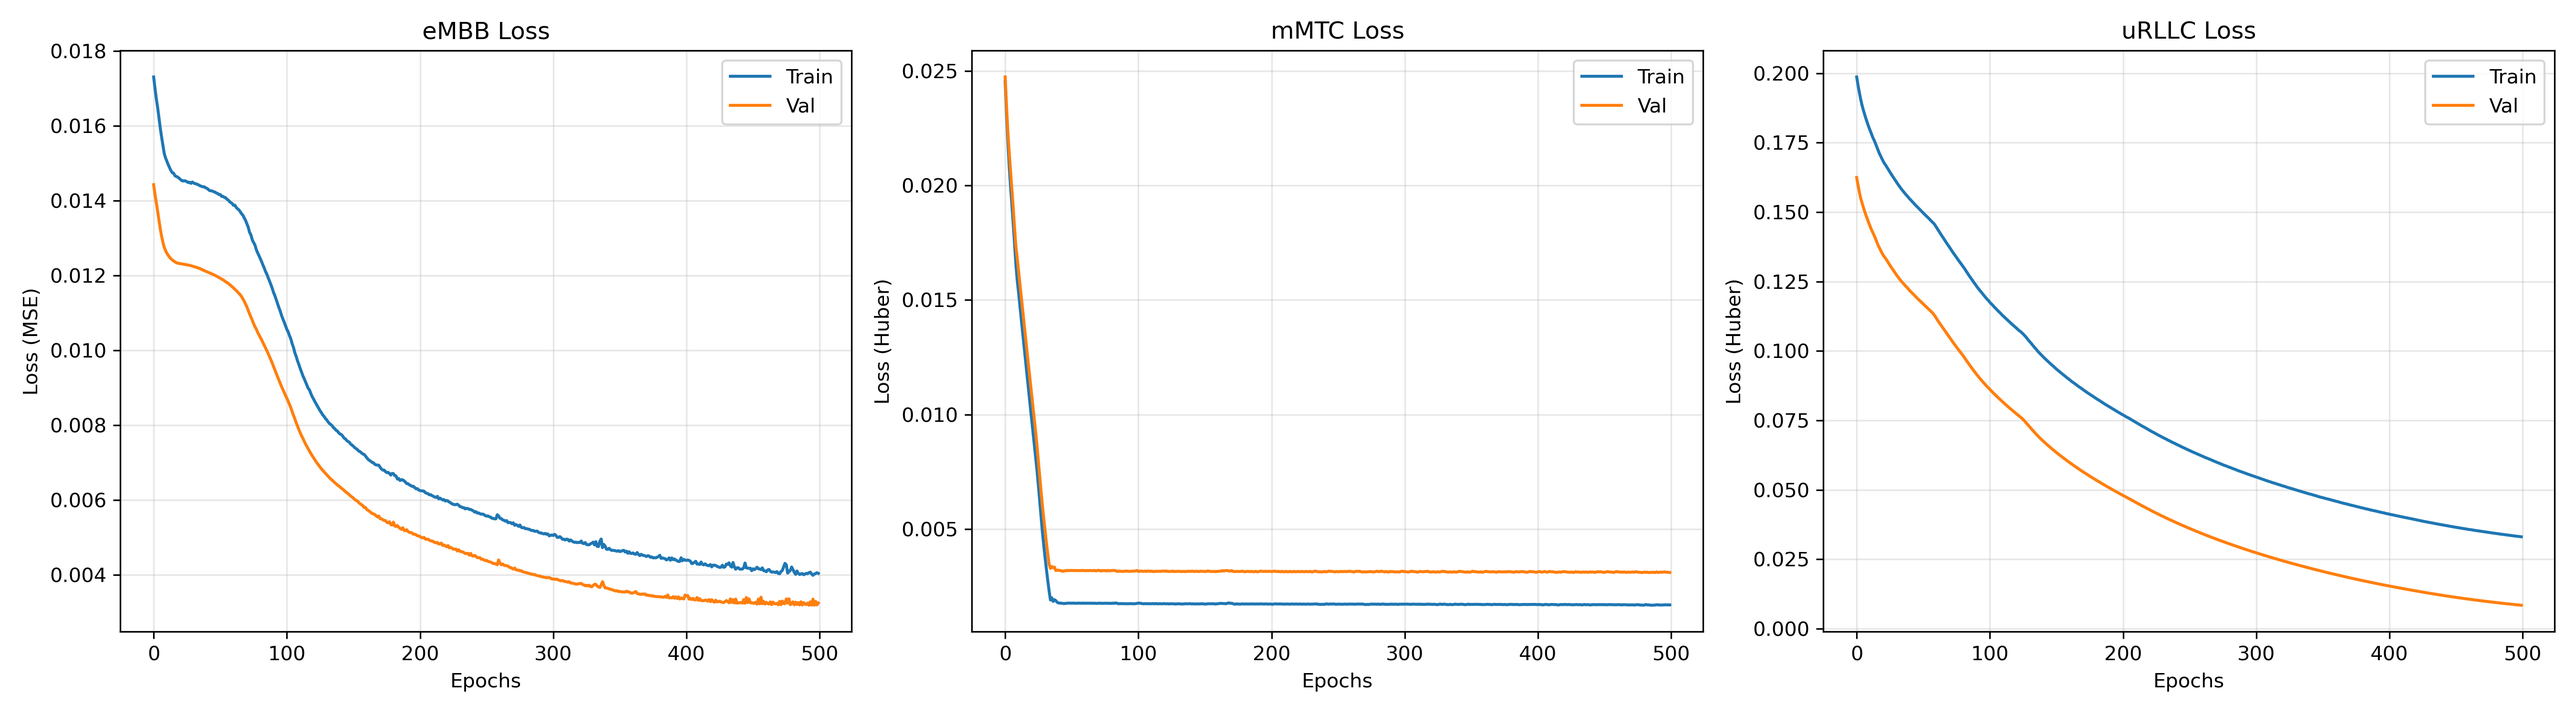
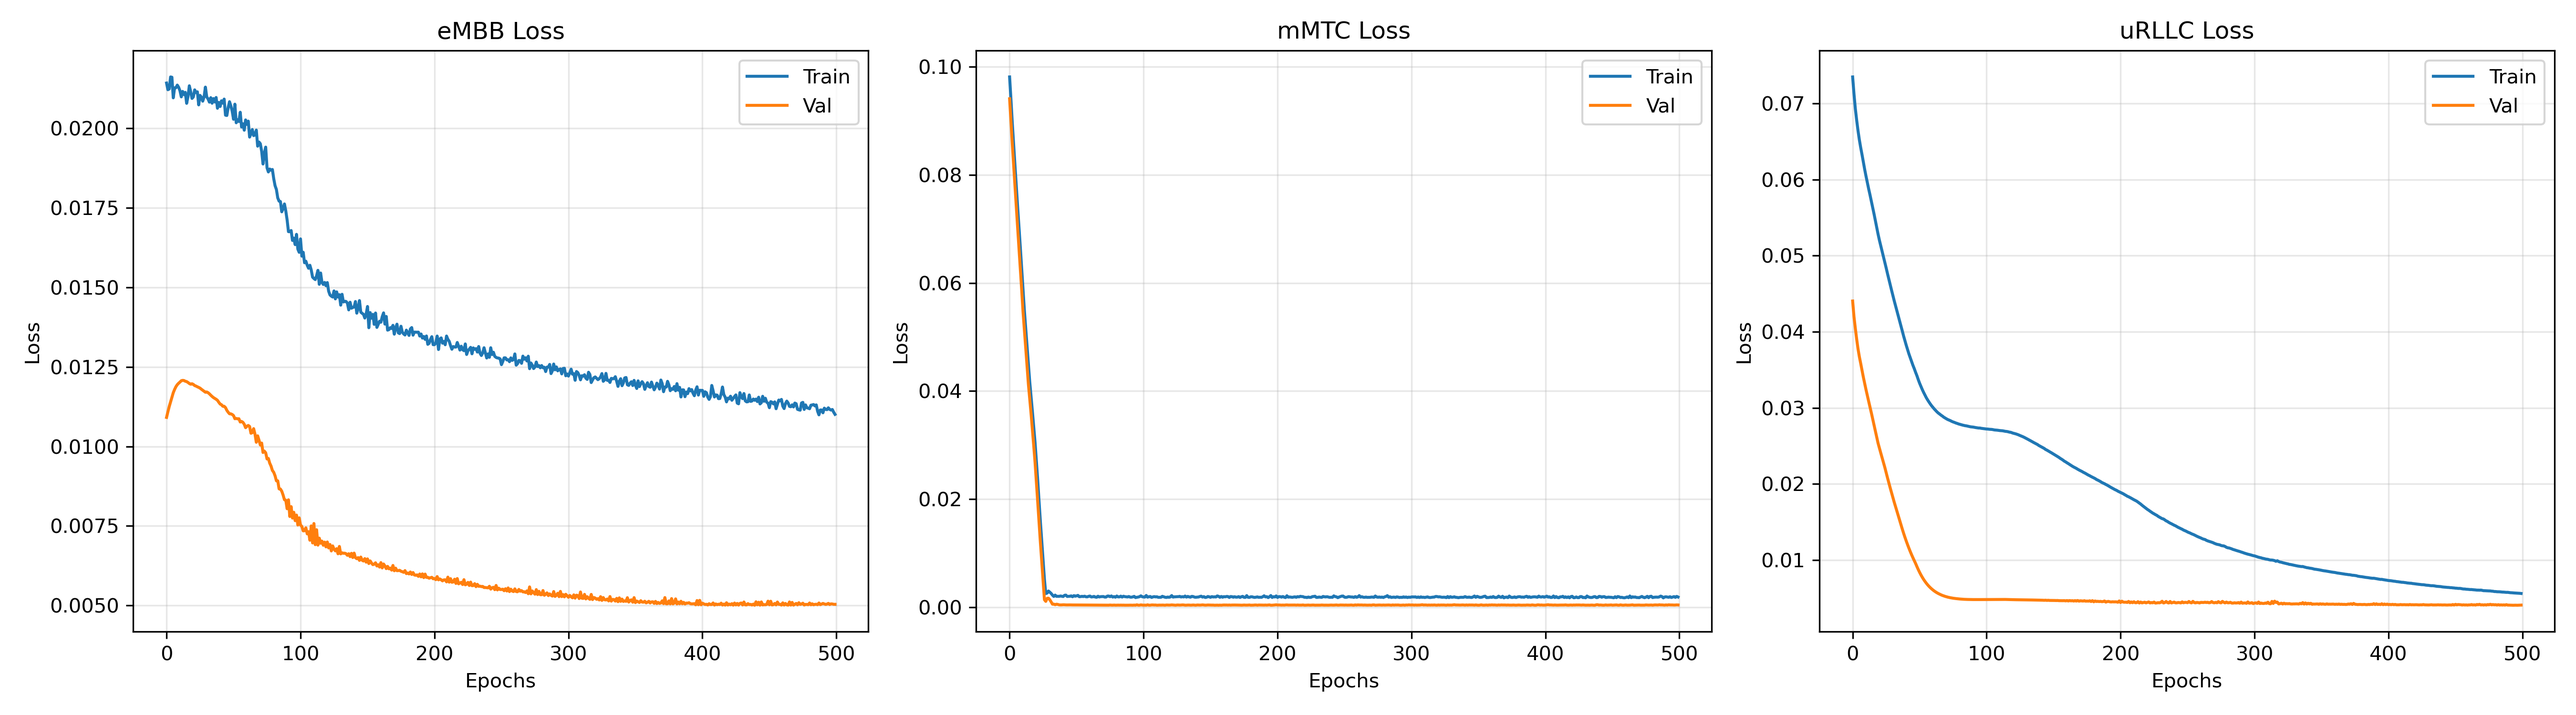
update model3

diff --git a/model3/train.py b/model3/train.py
@@ -19,8 +19,8 @@ def main():
     #Dataset
     processor = DataProcessor(sequenceLength)
 
-    embb_path = '../Dataset/Trial7/Raw/embb_11_18.csv'
-    mmtc_path = '../Dataset/Trial7/Raw/mmtc_11_18.csv'
+    embb_path = '../Dataset/Trial7/embb_03_03c.csv'
+    mmtc_path = '../Dataset/Trial7/Raw/mmtc_2.csv'
     urllc_path = '../Dataset/Trial7/Raw/urll_11_18.csv'
 
     def get_fitted_scalers(path):
@@ -66,41 +66,31 @@ def main():
     scalers_mmtc = get_fitted_scalers(mmtc_path)
     scalers_urllc = get_fitted_scalers(urllc_path)
 
-    train_dataset = MultiTaskDataset(
-        embb_path=embb_path, 
-        mmtc_path=mmtc_path, 
-        urllc_path=urllc_path, 
-        processor=processor,
-        scalers_embb=scalers_embb,
-        scalers_mmtc=scalers_mmtc,
-        scalers_urllc=scalers_urllc,
-        mode='train'
-    )
-    val_dataset = MultiTaskDataset(
-        embb_path=embb_path, 
-        mmtc_path=mmtc_path, 
-        urllc_path=urllc_path, 
-        processor=processor,
-        scalers_embb=scalers_embb,
-        scalers_mmtc=scalers_mmtc,
-        scalers_urllc=scalers_urllc,
-        mode='val'
-    )
-
-    test_dataset = MultiTaskDataset(
-        embb_path=embb_path, 
-        mmtc_path=mmtc_path, 
-        urllc_path=urllc_path, 
-        processor=processor,
-        scalers_embb=scalers_embb,
-        scalers_mmtc=scalers_mmtc,
-        scalers_urllc=scalers_urllc,
-        mode='test'
-    )
+    train_ds_embb = TrafficDataset(embb_path, processor, scalers_embb[0], scalers_embb[1], mode='train')
+    train_ds_mmtc = TrafficDataset(mmtc_path, processor, scalers_mmtc[0], scalers_mmtc[1], mode='train')
+    train_ds_urllc = TrafficDataset(urllc_path, processor, scalers_urllc[0], scalers_urllc[1], mode='train')
     
-    train_loader = DataLoader(train_dataset, batch_size=batch_size, shuffle=True)
-    val_loader = DataLoader(val_dataset, batch_size=batch_size, shuffle=False)
-    test_loader = DataLoader(test_dataset, batch_size=batch_size, shuffle=False)
+    train_loader_embb = DataLoader(train_ds_embb, batch_size=batch_size, shuffle=True)
+    train_loader_mmtc = DataLoader(train_ds_mmtc, batch_size=batch_size, shuffle=True)
+    train_loader_urllc = DataLoader(train_ds_urllc, batch_size=batch_size, shuffle=True)
+
+    val_ds_embb = TrafficDataset(embb_path, processor, scalers_embb[0], scalers_embb[1], mode='val')
+    val_ds_mmtc = TrafficDataset(mmtc_path, processor, scalers_mmtc[0], scalers_mmtc[1], mode='val')
+    val_ds_urllc = TrafficDataset(urllc_path, processor, scalers_urllc[0], scalers_urllc[1], mode='val')
+
+    val_loader_embb = DataLoader(val_ds_embb, batch_size=batch_size, shuffle=False)
+    val_loader_mmtc = DataLoader(val_ds_mmtc, batch_size=batch_size, shuffle=False)
+    val_loader_urllc = DataLoader(val_ds_urllc, batch_size=batch_size, shuffle=False)
+
+    test_ds_embb = TrafficDataset(embb_path, processor, scalers_embb[0], scalers_embb[1], mode='test')
+    test_ds_mmtc = TrafficDataset(mmtc_path, processor, scalers_mmtc[0], scalers_mmtc[1], mode='test')
+    test_ds_urllc = TrafficDataset(urllc_path, processor, scalers_urllc[0], scalers_urllc[1], mode='test')
+
+    test_loader_embb = DataLoader(test_ds_embb, batch_size=batch_size, shuffle=False)
+    test_loader_mmtc = DataLoader(test_ds_mmtc, batch_size=batch_size, shuffle=False)
+    test_loader_urllc = DataLoader(test_ds_urllc, batch_size=batch_size, shuffle=False)
+
+
 
     device = torch.device("cuda" if torch.cuda.is_available() else "cpu")
     print(f"---------------------------------------")
@@ -150,41 +140,36 @@ def main():
         epochs_loss_embb = 0.0
         epochs_loss_mmtc = 0.0
         epochs_loss_urllc = 0.0
-
-        for i, (x1, x2, x3, y1, y2, y3) in enumerate(train_loader):
-            x_embb, y_embb = x1.to(device), y1.to(device)
-            x_mmtc, y_mmtc = x2.to(device), y2.to(device)
-            x_urllc, y_urllc = x3.to(device), y3.to(device)
-
-            # Train embb model
+        for x, y in train_loader_embb:
+            x, y = x.to(device), y.to(device)
             opt_embb.zero_grad()
-            pred_embb = model_embb(x_embb)
-            loss_embb = criterion_mse(pred_embb, y_embb)
-            loss_embb.backward()
+            pred = model_embb(x)
+            loss = criterion_mse(pred, y)
+            loss.backward()
             opt_embb.step()
-            epochs_loss_embb += loss_embb.item()
-
-            # Train mmtc model
-            opt_mmtc.zero_grad()
-            pred_mmtc = model_mmtc(x_mmtc)
-            loss_mmtc = quantile_loss(pred_mmtc, y_mmtc, 0.7)
-            loss_mmtc.backward()
-            opt_mmtc.step()
-            epochs_loss_mmtc += loss_mmtc.item()
-
-            # Train urllc model
-            opt_urllc.zero_grad()
-            pred_urllc = model_urllc(x_urllc)
-            loss_urllc = criterion_mse(pred_urllc, y_urllc)
-            loss_urllc.backward()
-            opt_urllc.step()
-            epochs_loss_urllc += loss_urllc.item()
-
+            epochs_loss_embb += loss.item()
         
+        for x, y in train_loader_mmtc:
+            x, y = x.to(device), y.to(device)
+            opt_mmtc.zero_grad()
+            pred = model_mmtc(x)
+            loss = criterion_mse(pred, y)
+            loss.backward()
+            opt_mmtc.step()
+            epochs_loss_mmtc += loss.item()
+        
+        for x, y in train_loader_urllc:
+            x, y = x.to(device), y.to(device)
+            opt_urllc.zero_grad()
+            pred = model_urllc(x)
+            loss = criterion_mse(pred, y)
+            loss.backward()
+            opt_urllc.step()
+            epochs_loss_urllc += loss.item()
 
-        epochs_loss_embb /= len(train_loader)
-        epochs_loss_mmtc /= len(train_loader)
-        epochs_loss_urllc /= len(train_loader)
+        epochs_loss_embb /= len(train_loader_embb)
+        epochs_loss_mmtc /= len(train_loader_mmtc)
+        epochs_loss_urllc /= len(train_loader_urllc)
 
         train_losses_embb.append(epochs_loss_embb)
         train_losses_mmtc.append(epochs_loss_mmtc)
@@ -199,25 +184,27 @@ def main():
         val_loss_urllc = 0.0
 
         with torch.no_grad():
-            for i, (x1, x2, x3, y1, y2, y3) in enumerate(val_loader):
-                x_embb, y_embb = x1.to(device), y1.to(device)
-                x_mmtc, y_mmtc = x2.to(device), y2.to(device)
-                x_urllc, y_urllc = x3.to(device), y3.to(device)
+            for x, y in val_loader_embb:
+                x, y = x.to(device), y.to(device)
+                pred = model_embb(x)
+                loss = criterion_mse(pred, y)
+                val_loss_embb += loss.item()
+            
+            for x, y in val_loader_mmtc:
+                x, y = x.to(device), y.to(device)
+                pred = model_mmtc(x)
+                loss = criterion_mse(pred, y)
+                val_loss_mmtc += loss.item()
 
-                # embb val
-                pred_embb = model_embb(x_embb)
-                val_loss_embb += criterion_mse(pred_embb, y_embb).item()
+            for x, y in val_loader_urllc:
+                x, y = x.to(device), y.to(device)
+                pred = model_urllc(x)
+                loss = criterion_mse(pred, y)
+                val_loss_urllc += loss.item()
 
-                # mmtc val
-                pred_mmtc = model_mmtc(x_mmtc)
-                val_loss_mmtc += quantile_loss(pred_mmtc, y_mmtc, 0.7).item()
-                
-                # uRLLC Val
-                pred_urllc = model_urllc(x_urllc)
-                val_loss_urllc += criterion_mse(pred_urllc, y_urllc).item() 
-        val_loss_embb /= len(val_loader)
-        val_loss_mmtc /= len(val_loader)
-        val_loss_urllc /= len(val_loader)
+        val_loss_embb /= len(val_loader_embb)
+        val_loss_mmtc /= len(val_loader_mmtc)
+        val_loss_urllc /= len(val_loader_urllc)
 
         val_losses_embb.append(val_loss_embb)
         val_losses_mmtc.append(val_loss_mmtc)
@@ -240,29 +227,29 @@ def main():
     model_mmtc.eval()
     model_urllc.eval()
     with torch.no_grad():
-        for i, (x1, x2, x3, y1, y2, y3) in enumerate(test_loader):
-            x_embb, y_embb = x1.to(device), y1.to(device)
-            x_mmtc, y_mmtc = x2.to(device), y2.to(device)
-            x_urllc, y_urllc = x3.to(device), y3.to(device)
+        for x, y in test_loader_embb:
+            x, y = x.to(device), y.to(device)
+            pred = model_embb(x)
+            p_np = pred.cpu().numpy()
+            y_np = y.cpu().numpy()
+            embb_pred.append(p_np)
+            embb_target.append(y_np)
 
-            pred_embb = model_embb(x_embb)
-            pred_mmtc = model_mmtc(x_mmtc)
-            pred_urllc = model_urllc(x_urllc)
+        for x, y in test_loader_mmtc:
+            x, y = x.to(device), y.to(device)
+            pred = model_mmtc(x)
+            p_np = pred.cpu().numpy()
+            y_np = y.cpu().numpy()
+            mmtc_pred.append(p_np)
+            mmtc_target.append(y_np)
 
-            embb_p_np = pred_embb.cpu().numpy()
-            embb_y_np = y_embb.cpu().numpy()
-            mmtc_p_np = pred_mmtc.cpu().numpy()
-            mmtc_y_np = y_mmtc.cpu().numpy()
-            urllc_p_np = pred_urllc.cpu().numpy()
-            urllc_y_np = y_urllc.cpu().numpy()
-
-            embb_pred.append(embb_p_np)
-            embb_target.append(embb_y_np)
-            mmtc_pred.append(mmtc_p_np)
-            mmtc_target.append(mmtc_y_np)
-            urllc_pred.append(urllc_p_np)
-            urllc_target.append(urllc_y_np)
-    
+        for x, y in test_loader_urllc:
+            x, y = x.to(device), y.to(device)
+            pred = model_urllc(x)
+            p_np = pred.cpu().numpy()
+            y_np = y.cpu().numpy()
+            urllc_pred.append(p_np)
+            urllc_target.append(y_np)    
     print("Data collect complete!")
 
     embb_prediction = np.concatenate(embb_pred, axis=0)
@@ -286,7 +273,7 @@ def main():
     plt.plot(val_losses_embb, label='Val')
     plt.title('eMBB Loss')
     plt.xlabel('Epochs')
-    plt.ylabel('Loss (MSE)')
+    plt.ylabel('Loss')
     plt.legend()
     plt.grid(True, alpha=0.3)
 
@@ -296,7 +283,7 @@ def main():
     plt.plot(val_losses_mmtc, label='Val')
     plt.title('mMTC Loss')
     plt.xlabel('Epochs')
-    plt.ylabel('Loss (Huber)')
+    plt.ylabel('Loss')
     plt.legend()
     plt.grid(True, alpha=0.3)
 
@@ -306,7 +293,7 @@ def main():
     plt.plot(val_losses_urllc, label='Val')
     plt.title('uRLLC Loss')
     plt.xlabel('Epochs')
-    plt.ylabel('Loss (Huber)')
+    plt.ylabel('Loss')
     plt.legend()
     plt.grid(True, alpha=0.3)
 

diff --git a/model3/DataProcessor.py b/model3/DataProcessor.py
@@ -43,35 +43,26 @@ class DataProcessor:
             y_windows.append(window_y)
 
         return np.array(X_windows), np.array(y_windows)
-    
-class MultiTaskDataset(Dataset):
-    def __init__(self, embb_path, mmtc_path, urllc_path, processor, scalers_embb, scalers_mmtc, scalers_urllc, mode = 'train'):
-        self.X_embb, self.y_embb = processor.process_file(embb_path, scalers_embb[0], scalers_embb[1])
-        self.X_mmtc, self.y_mmtc = processor.process_file(mmtc_path, scalers_mmtc[0], scalers_mmtc[1])
-        self.X_urllc, self.y_urllc = processor.process_file(urllc_path, scalers_urllc[0], scalers_urllc[1])
-        
-        self.min_len = min(len(self.X_embb), len(self.X_mmtc), len(self.X_urllc))
 
-        self.X_embb = self.X_embb[:self.min_len]
-        self.y_embb = self.y_embb[:self.min_len]
-        self.X_mmtc = self.X_mmtc[:self.min_len]
-        self.y_mmtc = self.y_mmtc[:self.min_len]
-        self.X_urllc = self.X_urllc[:self.min_len]
-        self.y_urllc = self.y_urllc[:self.min_len]
+class TrafficDataset(Dataset):
+    def __init__(self, file_path, processor, scalerX, scalerY, mode='train'):
+        # 獨立處理單一檔案
+        self.X, self.y = processor.process_file(file_path, scalerX, scalerY)
+        self.data_len = len(self.X)
 
+        # 定義切割比例
         train_ratio = 0.8
         val_ratio = 0.1
-        test_ratio = 0.1
-
+        
         if mode == 'train':
             self.start_idx = 0
-            self.end_idx = int(self.min_len * train_ratio)
+            self.end_idx = int(self.data_len * train_ratio)
         elif mode == 'val':
-            self.start_idx = int(self.min_len * train_ratio)
-            self.end_idx = int(self.min_len * (train_ratio + val_ratio))
+            self.start_idx = int(self.data_len * train_ratio)
+            self.end_idx = int(self.data_len * (train_ratio + val_ratio))
         elif mode == 'test':
-            self.start_idx = int(self.min_len * (train_ratio + val_ratio))
-            self.end_idx = self.min_len
+            self.start_idx = int(self.data_len * (train_ratio + val_ratio))
+            self.end_idx = self.data_len
         else:
             raise ValueError("Invalid mode. Must be 'train', 'val', or 'test'.")
 
@@ -80,13 +71,6 @@ class MultiTaskDataset(Dataset):
     
     def __getitem__(self, idx):
         real_idx = self.start_idx + idx
-        
-        x1 = torch.tensor(self.X_embb[real_idx], dtype=torch.float32)
-        x2 = torch.tensor(self.X_mmtc[real_idx], dtype=torch.float32)
-        x3 = torch.tensor(self.X_urllc[real_idx], dtype=torch.float32)
-
-        y1 = torch.tensor(self.y_embb[real_idx], dtype=torch.float32)
-        y2 = torch.tensor(self.y_mmtc[real_idx], dtype=torch.float32)
-        y3 = torch.tensor(self.y_urllc[real_idx], dtype=torch.float32)
-
-        return x1, x2, x3, y1, y2, y3
+        x = torch.tensor(self.X[real_idx], dtype=torch.float32)
+        y = torch.tensor(self.y[real_idx], dtype=torch.float32)
+        return x, y
